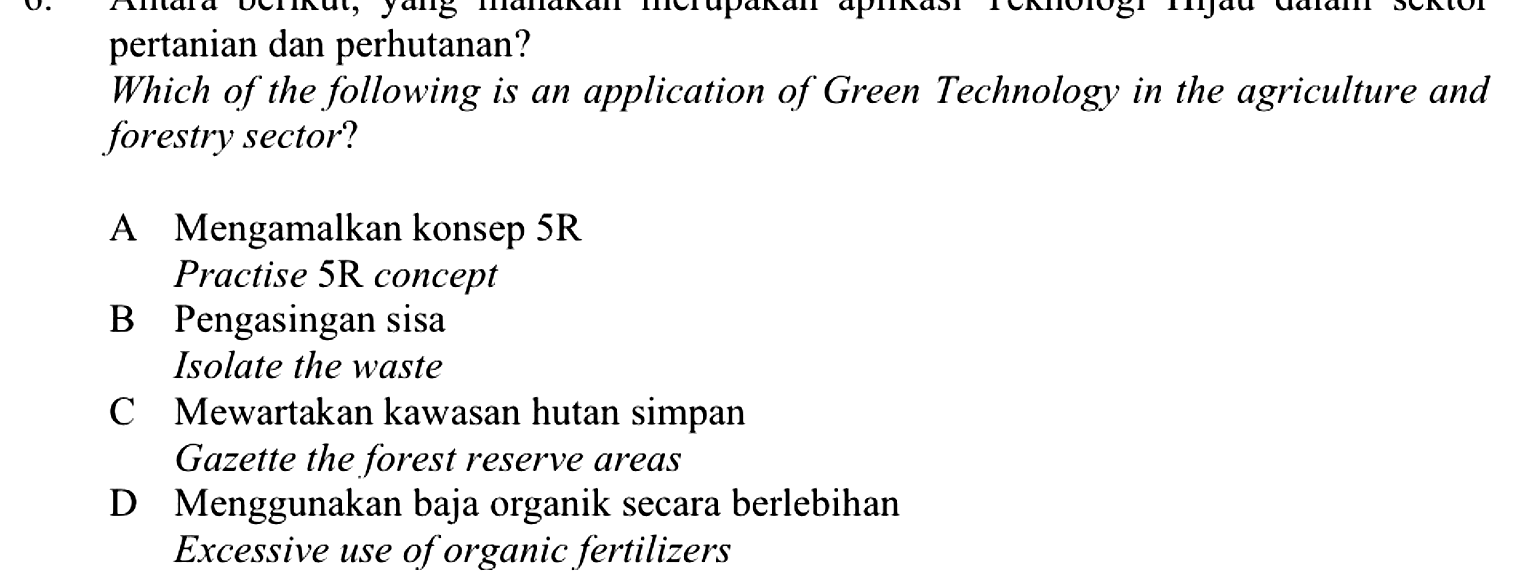
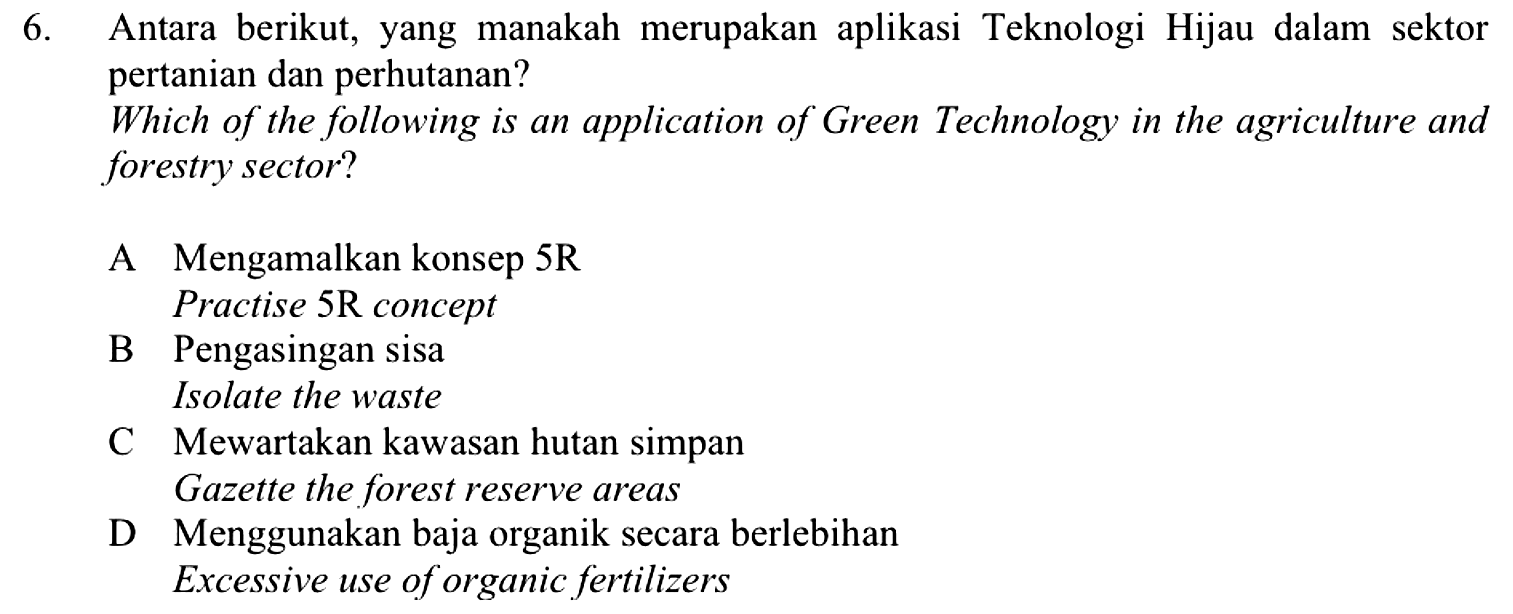
Add bilingual F5 chapter trial explanations and restore question image tops

Changed region(s): [[0.0621, 0.0, 0.9941, 0.3077], [0.0621, 0.3692, 0.5902, 0.9846], [0.0, 0.0, 0.0311, 0.0615]]

diff --git a/index.html b/index.html
@@ -265,6 +265,12 @@
     .option-label{ display:block; margin:6px 0; cursor:pointer; }
     .feedback{ font-weight:bold; margin:10px 0; min-height:1.2em; }
 
+    .answer-explanation{
+      margin:10px 0; padding:12px 14px; border:1px solid var(--border); border-radius:10px;
+      background:var(--soft-panel); color:var(--fg); font-weight:400; line-height:1.65;
+      white-space:pre-line;
+    }
+
     img{ max-width:100%; margin:10px 0; border:2px solid #ccc; border-radius:10px; }
     .question-image{
       display:block;
@@ -1388,8 +1394,17 @@ function loadPasswordsAndLogin(nm, pw, attempt){
     return rawChapter;
   }
 
+  const QUIZ_DATA_VERSION='20261002-explanations-2';
+  function versionedQuizUrl(value){
+    try{
+      const url=new URL(value,window.location.href);
+      if(url.origin===window.location.origin) url.searchParams.set('quizv',QUIZ_DATA_VERSION);
+      return url.href;
+    }catch{ return value; }
+  }
+
   function loadChapters(){
-    Papa.parse('Chapters.csv',{
+    Papa.parse(versionedQuizUrl('Chapters.csv'),{
       download:true,header:true,skipEmptyLines:true,
       complete(res){
         guardUniversalWindowOrThrow();
@@ -1432,7 +1447,7 @@ function loadPasswordsAndLogin(nm, pw, attempt){
     if(chapterQuestionCache[chap] != null) return chapterQuestionCache[chap];
     const secList = grouped[chap] || [];
     const counts = await Promise.all(secList.map(sec => new Promise(resolve=>{
-      Papa.parse(sec[sheetKey],{
+      Papa.parse(versionedQuizUrl(sec[sheetKey]),{
         download:true, header:true, skipEmptyLines:true,
         complete:r=>resolve((r.data||[]).length),
         error:()=>resolve(0)
@@ -1689,7 +1704,7 @@ function loadPasswordsAndLogin(nm, pw, attempt){
     }
     const tasks=secList.map(sec=>new Promise((resolve)=>{
       const sheetUrl=sec[sheetKey]; const baseDir=getBaseDir(sheetUrl);
-      Papa.parse(sheetUrl,{
+      Papa.parse(versionedQuizUrl(sheetUrl),{
         download:true,header:true,skipEmptyLines:true,
         complete(r){
           const rows=(r.data||[]).map(q=>({...q, attempt:0, __baseDir:baseDir }));
@@ -1843,7 +1858,7 @@ function loadPasswordsAndLogin(nm, pw, attempt){
       img.loading='lazy';
       img.decoding='async';
       img.onload=()=>fitQuestionImage(img);
-      img.src=src;
+      img.src=versionedQuizUrl(src);
       div.appendChild(createQuestionImageViewer(img));
     }
 
@@ -1874,6 +1889,11 @@ function loadPasswordsAndLogin(nm, pw, attempt){
     const fb=document.createElement('div');
     fb.className='feedback';
     div.appendChild(fb);
+
+    const explanationEl=document.createElement('div');
+    explanationEl.className='answer-explanation';
+    explanationEl.hidden=true;
+    div.appendChild(explanationEl);
 
     const sb=document.createElement('button');
     sb.className='pill-btn';
@@ -1989,6 +2009,12 @@ Do you want to use 1 revive to count this question as correct?`;
         fb.textContent = `正确! Correct! 分数 +${delta}，碎片 +${shardThisAnswer}`;
       }else{
         fb.textContent = `错误! Wrong! 分数 ${delta}，正确答案 Correct answer: ${ansTxt}`;
+      }
+
+      const explanationText=String(q.explanation||'').trim();
+      if(explanationText){
+        explanationEl.textContent=explanationText;
+        explanationEl.hidden=false;
       }
 
       updateUI(delta);
@@ -2192,3 +2218,4 @@ if (!isC && !usedRevive) {
 </script>
 </body>
 </html>
+
